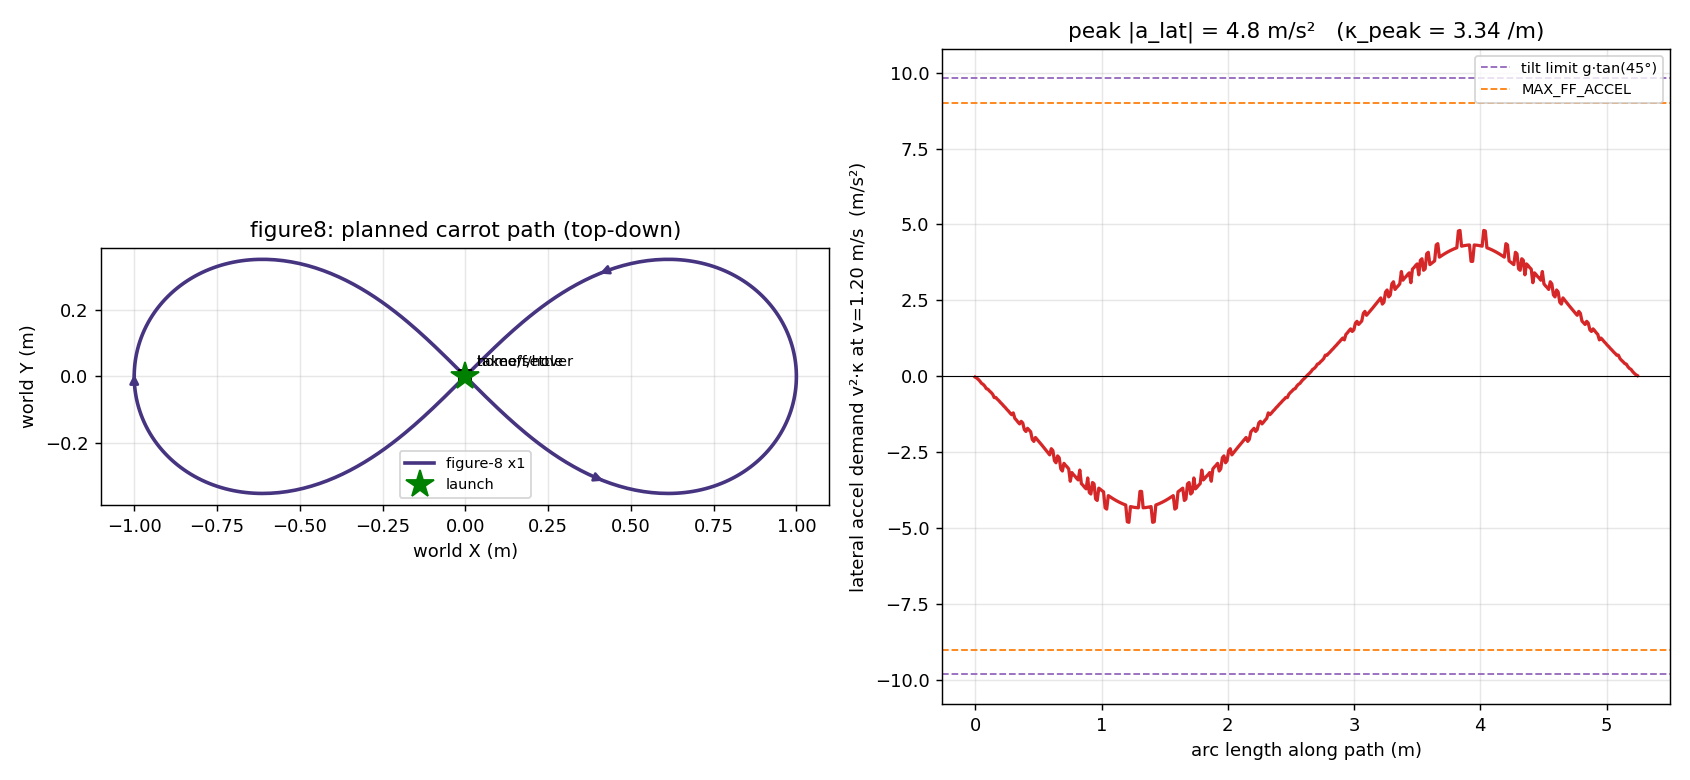
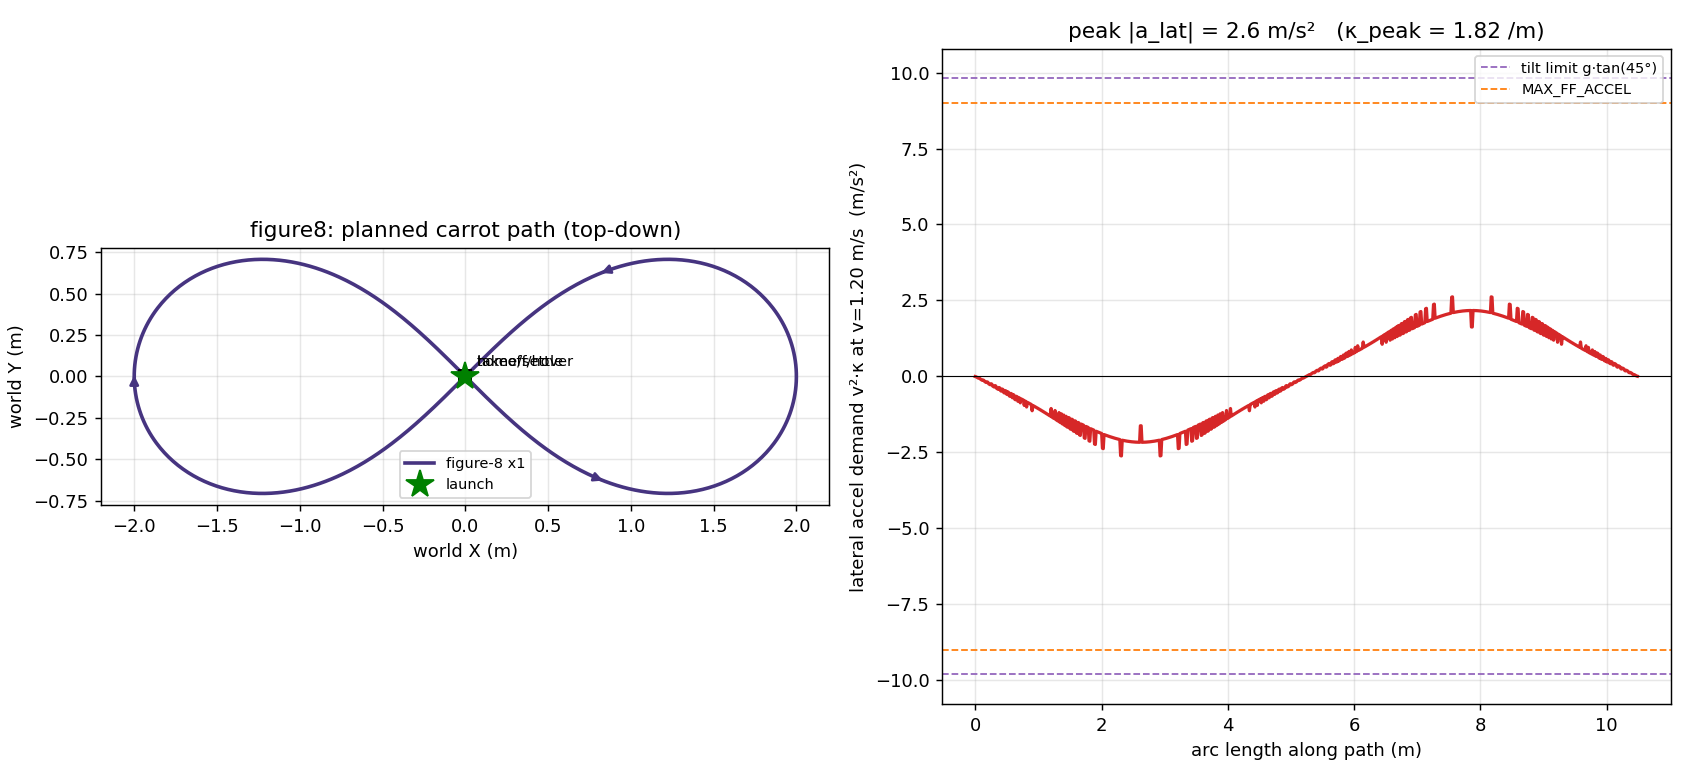
faster figure8

diff --git a/drone_control/Vicon_control/config.py b/drone_control/Vicon_control/config.py
@@ -387,21 +387,21 @@ YAW_ARRIVE_TOL_DEG = 5.0       # a dwell with a heading target waits (same arriv
 # 24° bank, like the circle). The tangent yaw rate also peaks at v·3/FIG8_END_X_M
 # (206°/s at 1.2 m/s) > the ~147°/s yaw authority, so FIG8_FACE_TANGENT must stay
 # False unless you slow down further. DRY-RUN and preview.py first.
-FIG8_END_X_M = 1.0             # centre→end distance along world X; loop radius R is
+FIG8_END_X_M = 2.0             # centre→end distance along world X; loop radius R is
                                # half this. Far ends pass through (±FIG8_END_X_M, 0).
-FIG8_LAPS = 1                  # full figure-8 traversals (each = right loop + left
+FIG8_LAPS = 2                  # full figure-8 traversals (each = right loop + left
                                # loop). The whole run flows at cruise; only the first
                                # loop ramps up and only the last brakes to the home dwell.
 FIG8_CW = False                # sense of the lemniscate (which loop is traced first,
                                # viewed from above): False = left loop first; True =
                                # right loop first (flips the sign of y). Both are one
                                # continuous smooth ∞ through the crossover.
-FIG8_FACE_TANGENT = False      # nose follows the travel direction. KEEP FALSE at the
+FIG8_FACE_TANGENT = True      # nose follows the travel direction. KEEP FALSE at the
                                # default speed/size: the yaw rate peaks at v·3/
                                # FIG8_END_X_M (206°/s at 1.2 m/s) — over the ~147°/s yaw
                                # authority. Only enable if FIG8_SPEED_MPS is low enough
                                # that v·3/FIG8_END_X_M < YAW_SLEW_DPS.
-FIG8_SPEED_MPS = 1.2           # carrot speed. LOWER than the circle's cruise on purpose:
+FIG8_SPEED_MPS = 3.6           # carrot speed. LOWER than the circle's cruise on purpose:
                                # the lemniscate's peak curvature is 3/FIG8_END_X_M at the
                                # ends, so peak bank ∝ v²; 1.2 m/s keeps it ~4.3 m/s² (24°,
                                # like the circle). Raise toward ~1.5 m/s max (see DYNAMICS).
